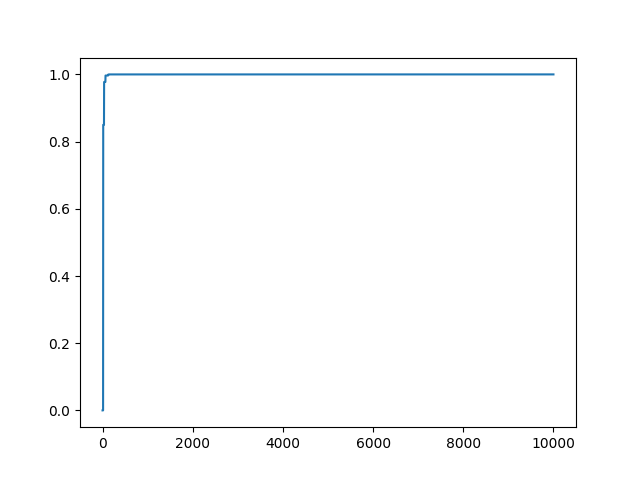
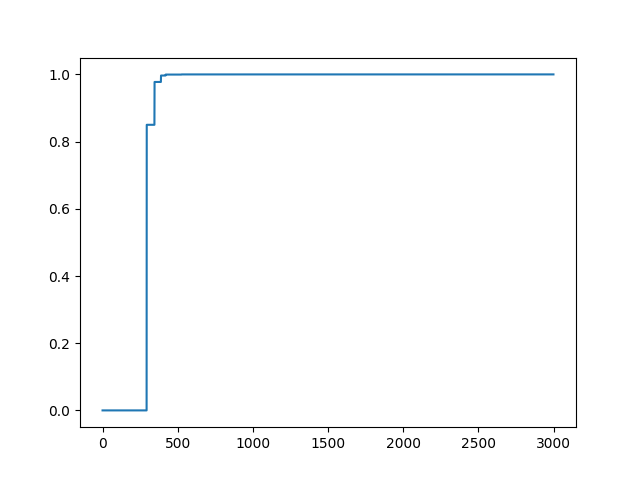
looking at convergence of optimal Q values under sarsa

diff --git a/ReinforcementLearning/TD_0.py b/ReinforcementLearning/TD_0.py
@@ -60,7 +60,7 @@ for s in range(env.observation_space.n):
     # num episodes, timesteps
 gamma = 0.90  # discount factor    
 alpha = 0.85  # learning rate
-num_episodes = 10000
+num_episodes = 100000
 num_timesteps = 1000
 
     # for each episode
@@ -80,14 +80,12 @@ plt.show()
     
 ############### policy #########################
 
-epsilon = 0.9
 
-Q = np.zeros((env.observation_space.n, env.action_space.n)) # Q matrix
 
 #Function to choose the next action
 def choose_action(state):
     action=0
-    if np.random.uniform(0, 1) < epsilon:
+    if np.random.uniform(0, 1) < epsilon: #with probability 1-epsilon do random move
         action = env.action_space.sample()
     else:
         action = np.argmax(Q[state, :])
@@ -96,9 +94,15 @@ def choose_action(state):
 #Function to learn the Q-value
 def update(s, s2, reward, a, a2):
     predict = Q[s, a]
+    if s==13 and a==2:
+        tmp_target = reward + gamma * Q[s2, a2]
+        #print(str( Q[s,a] ) + " "+ str( Q[s, a] + alpha * (tmp_target - predict) )+ " next state action:"+str(s2)+" "+str(a2)+ " "+str(Q[14,:]) )
     target = reward + gamma * Q[s2, a2]
     Q[s, a] = Q[s, a] + alpha * (target - predict)
 
+
+epsilon = 0.1
+Q = np.zeros((env.observation_space.n, env.action_space.n)) # Q matrix
 
 #Initializing the reward
 reward=0
@@ -106,7 +110,10 @@ reward=0
 #0: LEFT 1: DOWN 2: RIGHT 3: UP
 #def sarsa(episode, ):
 # Starting the SARSA learning
-VV = np.zeros(num_episodes)
+VV = np.zeros(num_episodes*num_timesteps)
+VV13 = np.zeros(num_episodes*num_timesteps)
+VV10 = np.zeros(num_episodes*num_timesteps)
+counter = 0
 for episode in range(num_episodes):
     t = 0
     s1 = env.reset()
@@ -131,15 +138,28 @@ for episode in range(num_episodes):
         #Updating the respective vaLues
         t += 1
         reward += 1
-         
+        
+        VV10[counter] = Q[10,1] # 10 step and step down    
+        VV13[counter] = Q[13, 2] # 13 step and step right    
+        VV[counter] = Q[14, 2] # last step and step right        
+        counter +=1
+        
         #If at the end of learning process
         if done:
             break
-            
-    VV[episode] = Q[14, 2] # last step and step right
     
-plt.plot(VV)
+print(counter)
+    
+plt.plot(VV[0:counter])
 plt.show()     
+
+plt.plot(VV13[0:counter])
+plt.show()    
+
+plt.plot(VV10[0:counter])
+plt.show()    
+
+np.set_printoptions(suppress=True)
 
 
 
